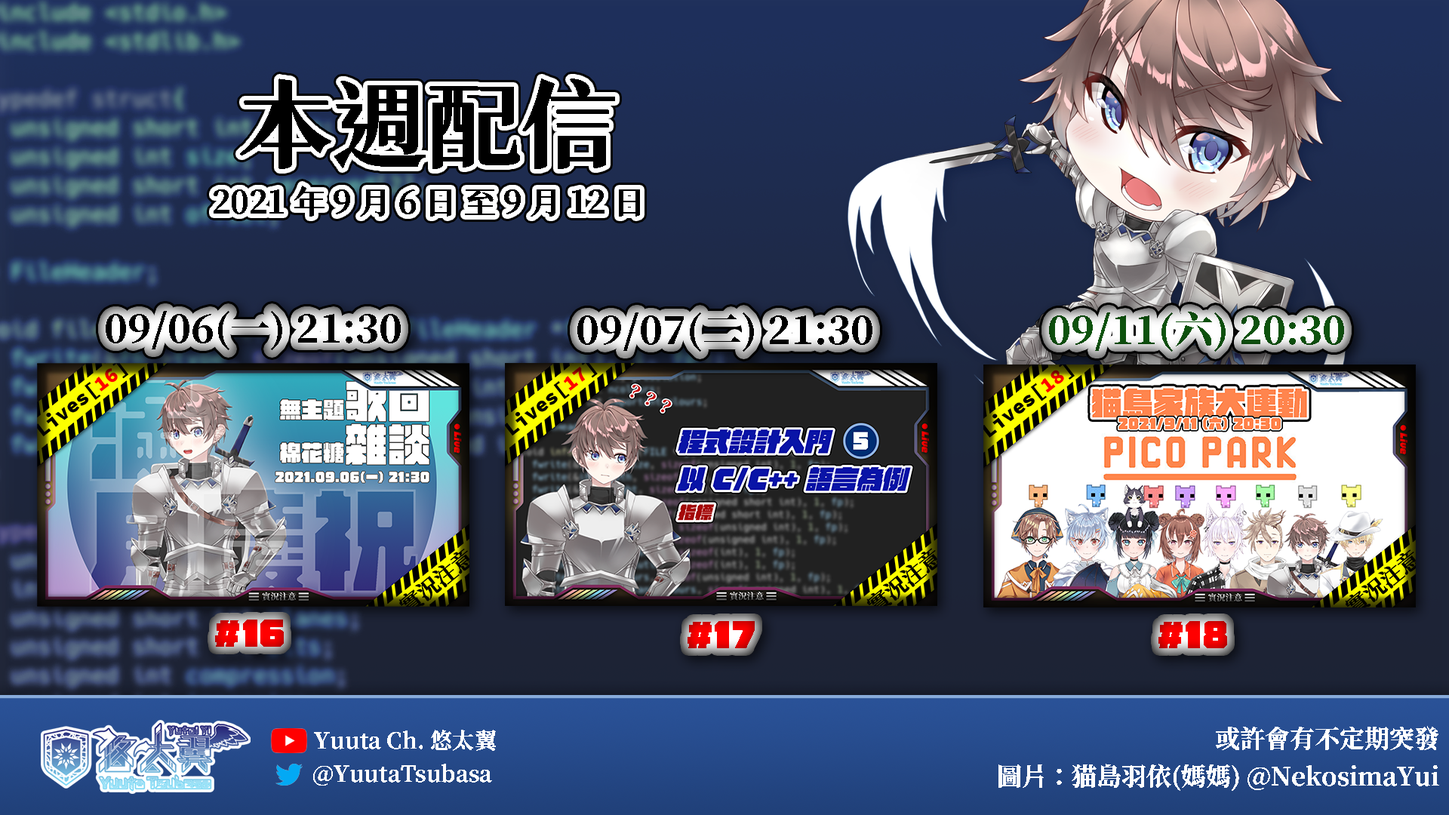
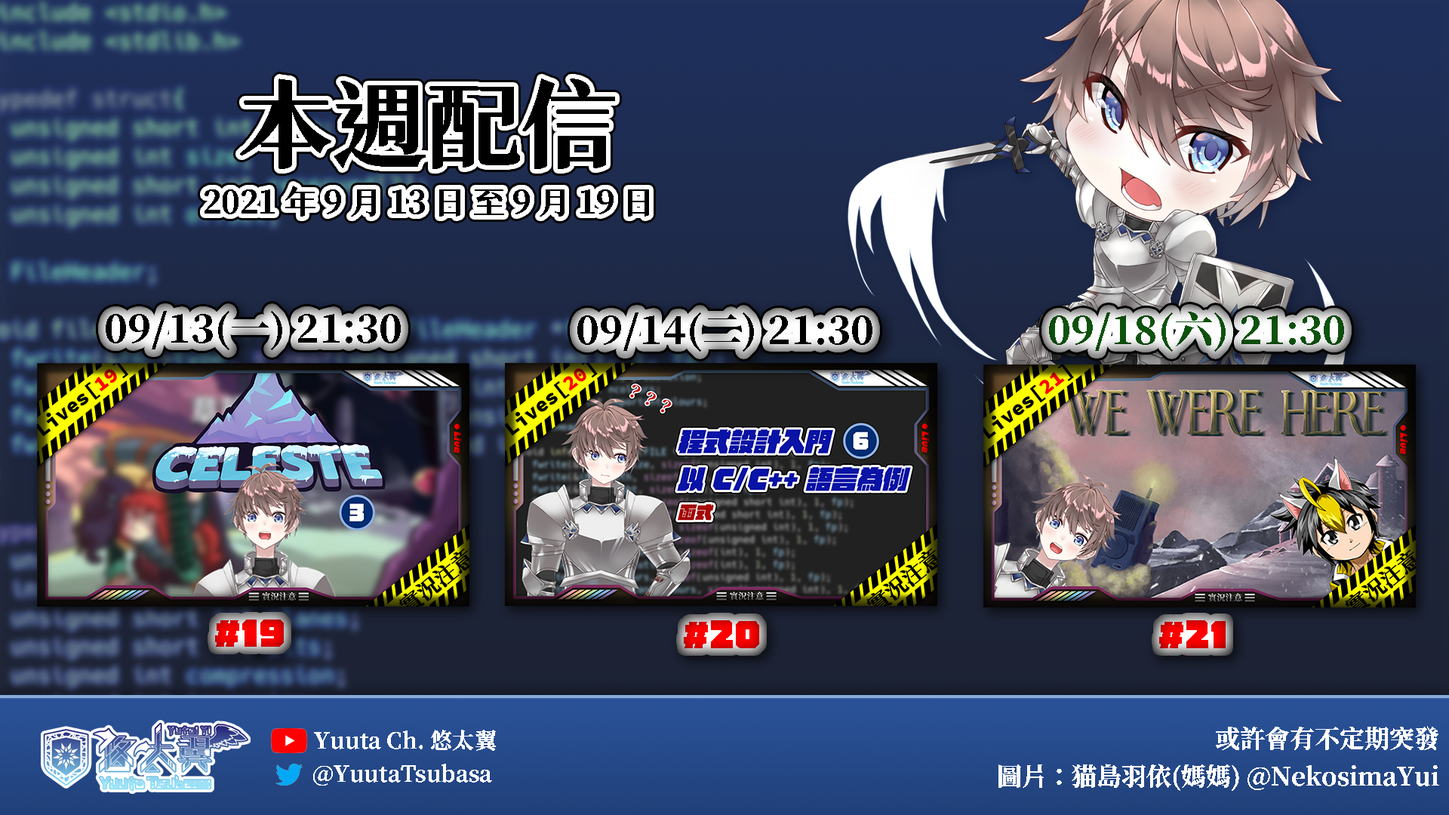
Deploying to gh-pages from @ YuutaTsubasa/yuutatsubasa.github.io@68db8c8528d4041c11b55ec7efde747c827c4e67 🚀

diff --git a/index.html b/index.html
@@ -1,1 +1,1 @@
-<!DOCTYPE html><html><head><meta name="viewport" content="width=device-width"/><meta charSet="utf-8"/><link rel="icon" href="/favicon.ico"/><link rel="stylesheet" href="/fontawesome/css/all.css"/><meta name="description" content="悠太翼的網站"/><meta name="og:title" content="悠太翼(YuutaTsubasa) 🛡 盔甲正太系程式 Vtuber"/><meta name="twitter:card" content="summary_large_image"/><title>悠太翼(YuutaTsubasa) 🛡 盔甲正太系程式 Vtuber</title><meta name="next-head-count" content="8"/><link rel="preload" href="/_next/static/css/c84a23c3529383e8691e.css" as="style"/><link rel="stylesheet" href="/_next/static/css/c84a23c3529383e8691e.css" data-n-g=""/><link rel="preload" href="/_next/static/css/3949ef07e270089e69d4.css" as="style"/><link rel="stylesheet" href="/_next/static/css/3949ef07e270089e69d4.css" data-n-p=""/><noscript data-n-css=""></noscript><script defer="" nomodule="" src="/_next/static/chunks/polyfills-a40ef1678bae11e696dba45124eadd70.js"></script><script src="/_next/static/chunks/webpack-fb76148cfcfb42ca18eb.js" defer=""></script><script src="/_next/static/chunks/framework-b97a0ed4f13ff8397343.js" defer=""></script><script src="/_next/static/chunks/main-8d15616dad332ac01c02.js" defer=""></script><script src="/_next/static/chunks/pages/_app-fc216805fd2937317618.js" defer=""></script><script src="/_next/static/chunks/pages/index-48dd8db55119de9d9891.js" defer=""></script><script src="/_next/static/AriH-njQXCVdFA5lpGZep/_buildManifest.js" defer=""></script><script src="/_next/static/AriH-njQXCVdFA5lpGZep/_ssgManifest.js" defer=""></script></head><body><div id="__next"><div class="layout_container__2t4v2"><header class="layout_header__2rhWq"><div class="communityLinks_communityLinks__3LC9Q"><ul><li><a href="http://yutaii.run/twitter" target="_blank"><i class="fab fa-twitter"></i></a></li><li><a href="http://yutaii.run/youtube" target="_blank"><i class="fab fa-youtube"></i></a></li><li><a href="http://yutaii.run/facebook" target="_blank"><i class="fab fa-facebook"></i></a></li><li><a href="http://yutaii.run/marshmallow" target="_blank"><img src="/images/marshmallow.png" alt="Marshmallow"/></a></li></ul></div><div class="layout_banner__2PG7O"></div></header><main><section class="index_mainContent__l3EDZ"><section class="index_selfIntroduction__xe_VB"><section><img src="/images/avatar.png" class="index_borderCircle__2V_CV" alt="悠太翼 Yuuta Tsubasa"/></section><section><div class="index_name__5Sg1Y"><h1>悠太翼 Yuuta Tsubasa</h1><h4><a href="https://twitter.com/YuutaTsubasa/status/1418251268846276608" target="_blank">詳細設定</a></h4></div><div>為台灣個人勢Vtuber、盔甲正太系程式 Vtuber，語言主要以中文為主，直播內容以程式、唱歌、遊戲、雜談為主。</div></section></section><hr/><img src="/images/week.png" alt="本週行事曆"/><hr/><section class="index_news__19rHM"><section class="youtubeVideos_youtubeVideosSection__3qo5M"><h2>Youtube 最新直播存檔與影片</h2><ul class="youtubeVideos_youtubeVideoList__2bTWV"><li><iframe width="560" height="315" src="https://www.youtube.com/embed/VtLt3AYNJ6M" title="YouTube video player" frameborder="0" allow="accelerometer; autoplay; clipboard-write; encrypted-media; gyroscope; picture-in-picture" allowfullscreen="true"></iframe><h5><a href="https://www.youtube.com/watch?v=VtLt3AYNJ6M" target="_blank">【#程式】No. 17: 程式設計入門，以 C/C++ 語言為例：#05 指標</a></h5></li><li><iframe width="560" height="315" src="https://www.youtube.com/embed/eJCRaQhiwNo" title="YouTube video player" frameborder="0" allow="accelerometer; autoplay; clipboard-write; encrypted-media; gyroscope; picture-in-picture" allowfullscreen="true"></iframe><h5><a href="https://www.youtube.com/watch?v=eJCRaQhiwNo" target="_blank">【#歌回/#雜談】No. 16: 滿月慶祝！無主題歌回，棉花糖雜談！</a></h5></li><li><iframe width="560" height="315" src="https://www.youtube.com/embed/OyEz7vJwinc" title="YouTube video player" frameborder="0" allow="accelerometer; autoplay; clipboard-write; encrypted-media; gyroscope; picture-in-picture" allowfullscreen="true"></iframe><h5><a href="https://www.youtube.com/watch?v=OyEz7vJwinc" target="_blank">【#遊戲】No. 15: 繼續登山囉！《Celeste》 #02</a></h5></li><li><iframe width="560" height="315" src="https://www.youtube.com/embed/JFtjGUbIY8g" title="YouTube video player" frameborder="0" allow="accelerometer; autoplay; clipboard-write; encrypted-media; gyroscope; picture-in-picture" allowfullscreen="true"></iframe><h5><a href="https://www.youtube.com/watch?v=JFtjGUbIY8g" target="_blank">【#shorts】害羞地試唱個え?あぁ、そう。</a></h5></li><li><iframe width="560" height="315" src="https://www.youtube.com/embed/p7ho7-qJ-Z8" title="YouTube video player" frameborder="0" allow="accelerometer; autoplay; clipboard-write; encrypted-media; gyroscope; picture-in-picture" allowfullscreen="true"></iframe><h5><a href="https://www.youtube.com/watch?v=p7ho7-qJ-Z8" target="_blank">【#程式】No. 14: 程式設計入門，以 C/C++ 語言為例：#04 字元與字串</a></h5></li><li><iframe width="560" height="315" src="https://www.youtube.com/embed/LZQXkvkBdXo" title="YouTube video player" frameborder="0" allow="accelerometer; autoplay; clipboard-write; encrypted-media; gyroscope; picture-in-picture" allowfullscreen="true"></iframe><h5><a href="https://www.youtube.com/watch?v=LZQXkvkBdXo" target="_blank">【#遊戲/#連動】No. 13: 雙人成行 #05 (End.) feat. 貓耳未來</a></h5></li><li><iframe width="560" height="315" src="https://www.youtube.com/embed/yD-BMVUWFP4" title="YouTube video player" frameborder="0" allow="accelerometer; autoplay; clipboard-write; encrypted-media; gyroscope; picture-in-picture" allowfullscreen="true"></iframe><h5><a href="https://www.youtube.com/watch?v=yD-BMVUWFP4" target="_blank">【#遊戲】No. 12: 來登山囉！《Celeste》 #01</a></h5></li><li><iframe width="560" height="315" src="https://www.youtube.com/embed/dbkn4WJxRvE" title="YouTube video player" frameborder="0" allow="accelerometer; autoplay; clipboard-write; encrypted-media; gyroscope; picture-in-picture" allowfullscreen="true"></iframe><h5><a href="https://www.youtube.com/watch?v=dbkn4WJxRvE" target="_blank">【#shorts】試唱著フラジール看看！？</a></h5></li><li><iframe width="560" height="315" src="https://www.youtube.com/embed/CLUQ93efUrk" title="YouTube video player" frameborder="0" allow="accelerometer; autoplay; clipboard-write; encrypted-media; gyroscope; picture-in-picture" allowfullscreen="true"></iframe><h5><a href="https://www.youtube.com/watch?v=CLUQ93efUrk" target="_blank">【#程式】No. 11: 程式設計入門，以 C/C++ 語言為例：#03 陣列</a></h5></li></ul></section><section class="index_twitter__1Bhv0"><a class="twitter-timeline" data-lang="zh-tw" data-height="800" data-dnt="true" data-theme="light" href="https://twitter.com/YuutaTsubasa?ref_src=twsrc%5Etfw">Tweets by YuutaTsubasa</a> <script async src="https://platform.twitter.com/widgets.js" charset="utf-8"></script></section></section></section></main><footer class="layout_footer__127N0"><img src="/images/logo.png" alt="悠太翼"/></footer></div></div><script id="__NEXT_DATA__" type="application/json">{"props":{"pageProps":{"communityLinksData":[{"name":"Twitter","url":"http://yutaii.run/twitter","fontawesome":"fab fa-twitter"},{"name":"Youtube","url":"http://yutaii.run/youtube","fontawesome":"fab fa-youtube"},{"name":"Facebook","url":"http://yutaii.run/facebook","fontawesome":"fab fa-facebook"},{"name":"Marshmallow","url":"http://yutaii.run/marshmallow","image":"/images/marshmallow.png"}],"youtubeVideosData":[{"name":"【#程式】No. 17: 程式設計入門，以 C/C++ 語言為例：#05 指標","url":"VtLt3AYNJ6M"},{"name":"【#歌回/#雜談】No. 16: 滿月慶祝！無主題歌回，棉花糖雜談！","url":"eJCRaQhiwNo"},{"name":"【#遊戲】No. 15: 繼續登山囉！《Celeste》 #02","url":"OyEz7vJwinc"},{"name":"【#shorts】害羞地試唱個え?あぁ、そう。","url":"JFtjGUbIY8g"},{"name":"【#程式】No. 14: 程式設計入門，以 C/C++ 語言為例：#04 字元與字串","url":"p7ho7-qJ-Z8"},{"name":"【#遊戲/#連動】No. 13: 雙人成行 #05 (End.) feat. 貓耳未來","url":"LZQXkvkBdXo"},{"name":"【#遊戲】No. 12: 來登山囉！《Celeste》 #01","url":"yD-BMVUWFP4"},{"name":"【#shorts】試唱著フラジール看看！？","url":"dbkn4WJxRvE"},{"name":"【#程式】No. 11: 程式設計入門，以 C/C++ 語言為例：#03 陣列","url":"CLUQ93efUrk"},{"name":"【#遊戲/#連動】No. 10: 雙人成行 #04 feat. 貓耳未來","url":"_9qcpKku9LU"},{"name":"【#遊戲】No. 9: 來玩《陽春白雪》吧！","url":"43WXeYvCY2U"},{"name":"【#突發/#歌回】突發 2: 夜晚的羞恥練歌直播時間","url":"FVmzHwqmpMQ"},{"name":"【#shorts】中華一番最近又重新在木棉花連載，就來唱一小段主題曲吧！","url":"URrwX1Iu0Rk"},{"name":"【#程式】No. 8: 程式設計入門，以 C/C++ 語言為例：#02 條件判斷 \u0026 迴圈","url":"weh2FarXZNc"},{"name":"【#遊戲/#連動】No. 7: 雙人成行 #03 feat. 貓耳未來","url":"t67NnPcA2cM"},{"name":"【#遊戲】No. 6: 來複習一下 Sonic Generations 吧！","url":"7J8GLuXLLyU"},{"name":"【#程式】No. 5: 程式設計入門，以 C/C++ 語言為例：#01 基本輸入輸出 \u0026 變數與運算","url":"dDFZ9v9MOJA"},{"name":"【#遊戲/#連動】No. 4: 雙人成行 #02 feat. 貓耳未來","url":"AG3abdXMtTA"},{"name":"【#突發/#遊戲】突發 1: 測試 Mac 直播，遊玩第七史詩 #01","url":"WoKRDLibx1Y"},{"name":"【#突發/#遊戲】突發 0: 測試平板直播，遊玩東方ダンマクカグラ和プロジェクトセカイ","url":"vN2Oz2uggW4"},{"name":"【#遊戲】No. 3: 來玩簡單的益智小遊戲 Clickr 吧！","url":"hVkDb9IFXL0"},{"name":"【#精華】初配信歌回剪輯：ベノム","url":"M-2We-9Te5I"},{"name":"【#程式】No. 2: 從零開始的 Youtube 聊天室 CSS 語法設定教學","url":"1oHsrrheF94"},{"name":"【#遊戲/#連動】No. 1: 雙人成行 #01 feat. 貓耳未來","url":"Bb5PbxXB7lQ"},{"name":"【#實況】No. 0: 初配信，來做點自我介紹吧！","url":"zbyvgQOZu8E"},{"name":"【#預告】歡迎大家來我的初配信玩唷！","url":"9AalehTm_Bc"},{"name":"【#生日/#歌回】生日來唱一下「Butter-Fly」！","url":"xmkA5Q4M2mg"},{"name":"【#shorts】做完以前所居住的地方的背景圖，就來用這張圖唱個シャルル吧！","url":"H4Mb1SR7EUk"},{"name":"【#BGM】悠太個人工作室 / Yuuta's Personal Workstation (悠太翼主要實況用背景音樂) - SIHanatsuka","url":"ZIqUfaHiIlg"},{"name":"【#歌回】推特 900 追隨慶祝，試唱個北斗之拳主題曲「愛をとりもどせ!!」吧！","url":"CLfMfrNmBYU"},{"name":"【#shorts】練唱個新宝島看看","url":"vQYa-Yk5PPY"},{"name":"【#社群先行/#歌回】推特 800 追隨慶祝，一次試唱「踊」！","url":"Lp5hLthAPYM"},{"name":"【#shorts】偷哼歌又被抓到了QAQ","url":"Ib_jbZkilqk"}]},"__N_SSG":true},"page":"/","query":{},"buildId":"AriH-njQXCVdFA5lpGZep","isFallback":false,"gsp":true,"scriptLoader":[]}</script></body></html>
+<!DOCTYPE html><html><head><meta name="viewport" content="width=device-width"/><meta charSet="utf-8"/><link rel="icon" href="/favicon.ico"/><link rel="stylesheet" href="/fontawesome/css/all.css"/><meta name="description" content="悠太翼的網站"/><meta name="og:title" content="悠太翼(YuutaTsubasa) 🛡 盔甲正太系程式 Vtuber"/><meta name="twitter:card" content="summary_large_image"/><title>悠太翼(YuutaTsubasa) 🛡 盔甲正太系程式 Vtuber</title><meta name="next-head-count" content="8"/><link rel="preload" href="/_next/static/css/c84a23c3529383e8691e.css" as="style"/><link rel="stylesheet" href="/_next/static/css/c84a23c3529383e8691e.css" data-n-g=""/><link rel="preload" href="/_next/static/css/3949ef07e270089e69d4.css" as="style"/><link rel="stylesheet" href="/_next/static/css/3949ef07e270089e69d4.css" data-n-p=""/><noscript data-n-css=""></noscript><script defer="" nomodule="" src="/_next/static/chunks/polyfills-a40ef1678bae11e696dba45124eadd70.js"></script><script src="/_next/static/chunks/webpack-fb76148cfcfb42ca18eb.js" defer=""></script><script src="/_next/static/chunks/framework-b97a0ed4f13ff8397343.js" defer=""></script><script src="/_next/static/chunks/main-8d15616dad332ac01c02.js" defer=""></script><script src="/_next/static/chunks/pages/_app-fc216805fd2937317618.js" defer=""></script><script src="/_next/static/chunks/pages/index-48dd8db55119de9d9891.js" defer=""></script><script src="/_next/static/aIDZtK797D-mD7-SrkF7M/_buildManifest.js" defer=""></script><script src="/_next/static/aIDZtK797D-mD7-SrkF7M/_ssgManifest.js" defer=""></script></head><body><div id="__next"><div class="layout_container__2t4v2"><header class="layout_header__2rhWq"><div class="communityLinks_communityLinks__3LC9Q"><ul><li><a href="http://yutaii.run/twitter" target="_blank"><i class="fab fa-twitter"></i></a></li><li><a href="http://yutaii.run/youtube" target="_blank"><i class="fab fa-youtube"></i></a></li><li><a href="http://yutaii.run/facebook" target="_blank"><i class="fab fa-facebook"></i></a></li><li><a href="http://yutaii.run/marshmallow" target="_blank"><img src="/images/marshmallow.png" alt="Marshmallow"/></a></li></ul></div><div class="layout_banner__2PG7O"></div></header><main><section class="index_mainContent__l3EDZ"><section class="index_selfIntroduction__xe_VB"><section><img src="/images/avatar.png" class="index_borderCircle__2V_CV" alt="悠太翼 Yuuta Tsubasa"/></section><section><div class="index_name__5Sg1Y"><h1>悠太翼 Yuuta Tsubasa</h1><h4><a href="https://twitter.com/YuutaTsubasa/status/1418251268846276608" target="_blank">詳細設定</a></h4></div><div>為台灣個人勢Vtuber、盔甲正太系程式 Vtuber，語言主要以中文為主，直播內容以程式、唱歌、遊戲、雜談為主。</div></section></section><hr/><img src="/images/week.png" alt="本週行事曆"/><hr/><section class="index_news__19rHM"><section class="youtubeVideos_youtubeVideosSection__3qo5M"><h2>Youtube 最新直播存檔與影片</h2><ul class="youtubeVideos_youtubeVideoList__2bTWV"><li><iframe width="560" height="315" src="https://www.youtube.com/embed/pojlHQP8S7w" title="YouTube video player" frameborder="0" allow="accelerometer; autoplay; clipboard-write; encrypted-media; gyroscope; picture-in-picture" allowfullscreen="true"></iframe><h5><a href="https://www.youtube.com/watch?v=pojlHQP8S7w" target="_blank">【#遊戲】No. 18: #猫島家族大連動！一起來玩《Pico Park》吧！feat. 猫島家族</a></h5></li><li><iframe width="560" height="315" src="https://www.youtube.com/embed/VtLt3AYNJ6M" title="YouTube video player" frameborder="0" allow="accelerometer; autoplay; clipboard-write; encrypted-media; gyroscope; picture-in-picture" allowfullscreen="true"></iframe><h5><a href="https://www.youtube.com/watch?v=VtLt3AYNJ6M" target="_blank">【#程式】No. 17: 程式設計入門，以 C/C++ 語言為例：#05 指標</a></h5></li><li><iframe width="560" height="315" src="https://www.youtube.com/embed/eJCRaQhiwNo" title="YouTube video player" frameborder="0" allow="accelerometer; autoplay; clipboard-write; encrypted-media; gyroscope; picture-in-picture" allowfullscreen="true"></iframe><h5><a href="https://www.youtube.com/watch?v=eJCRaQhiwNo" target="_blank">【#歌回/#雜談】No. 16: 滿月慶祝！無主題歌回，棉花糖雜談！</a></h5></li><li><iframe width="560" height="315" src="https://www.youtube.com/embed/OyEz7vJwinc" title="YouTube video player" frameborder="0" allow="accelerometer; autoplay; clipboard-write; encrypted-media; gyroscope; picture-in-picture" allowfullscreen="true"></iframe><h5><a href="https://www.youtube.com/watch?v=OyEz7vJwinc" target="_blank">【#遊戲】No. 15: 繼續登山囉！《Celeste》 #02</a></h5></li><li><iframe width="560" height="315" src="https://www.youtube.com/embed/JFtjGUbIY8g" title="YouTube video player" frameborder="0" allow="accelerometer; autoplay; clipboard-write; encrypted-media; gyroscope; picture-in-picture" allowfullscreen="true"></iframe><h5><a href="https://www.youtube.com/watch?v=JFtjGUbIY8g" target="_blank">【#shorts】害羞地試唱個え?あぁ、そう。</a></h5></li><li><iframe width="560" height="315" src="https://www.youtube.com/embed/p7ho7-qJ-Z8" title="YouTube video player" frameborder="0" allow="accelerometer; autoplay; clipboard-write; encrypted-media; gyroscope; picture-in-picture" allowfullscreen="true"></iframe><h5><a href="https://www.youtube.com/watch?v=p7ho7-qJ-Z8" target="_blank">【#程式】No. 14: 程式設計入門，以 C/C++ 語言為例：#04 字元與字串</a></h5></li><li><iframe width="560" height="315" src="https://www.youtube.com/embed/LZQXkvkBdXo" title="YouTube video player" frameborder="0" allow="accelerometer; autoplay; clipboard-write; encrypted-media; gyroscope; picture-in-picture" allowfullscreen="true"></iframe><h5><a href="https://www.youtube.com/watch?v=LZQXkvkBdXo" target="_blank">【#遊戲/#連動】No. 13: 雙人成行 #05 (End.) feat. 貓耳未來</a></h5></li><li><iframe width="560" height="315" src="https://www.youtube.com/embed/yD-BMVUWFP4" title="YouTube video player" frameborder="0" allow="accelerometer; autoplay; clipboard-write; encrypted-media; gyroscope; picture-in-picture" allowfullscreen="true"></iframe><h5><a href="https://www.youtube.com/watch?v=yD-BMVUWFP4" target="_blank">【#遊戲】No. 12: 來登山囉！《Celeste》 #01</a></h5></li><li><iframe width="560" height="315" src="https://www.youtube.com/embed/dbkn4WJxRvE" title="YouTube video player" frameborder="0" allow="accelerometer; autoplay; clipboard-write; encrypted-media; gyroscope; picture-in-picture" allowfullscreen="true"></iframe><h5><a href="https://www.youtube.com/watch?v=dbkn4WJxRvE" target="_blank">【#shorts】試唱著フラジール看看！？</a></h5></li></ul></section><section class="index_twitter__1Bhv0"><a class="twitter-timeline" data-lang="zh-tw" data-height="800" data-dnt="true" data-theme="light" href="https://twitter.com/YuutaTsubasa?ref_src=twsrc%5Etfw">Tweets by YuutaTsubasa</a> <script async src="https://platform.twitter.com/widgets.js" charset="utf-8"></script></section></section></section></main><footer class="layout_footer__127N0"><img src="/images/logo.png" alt="悠太翼"/></footer></div></div><script id="__NEXT_DATA__" type="application/json">{"props":{"pageProps":{"communityLinksData":[{"name":"Twitter","url":"http://yutaii.run/twitter","fontawesome":"fab fa-twitter"},{"name":"Youtube","url":"http://yutaii.run/youtube","fontawesome":"fab fa-youtube"},{"name":"Facebook","url":"http://yutaii.run/facebook","fontawesome":"fab fa-facebook"},{"name":"Marshmallow","url":"http://yutaii.run/marshmallow","image":"/images/marshmallow.png"}],"youtubeVideosData":[{"name":"【#遊戲】No. 18: #猫島家族大連動！一起來玩《Pico Park》吧！feat. 猫島家族","url":"pojlHQP8S7w"},{"name":"【#程式】No. 17: 程式設計入門，以 C/C++ 語言為例：#05 指標","url":"VtLt3AYNJ6M"},{"name":"【#歌回/#雜談】No. 16: 滿月慶祝！無主題歌回，棉花糖雜談！","url":"eJCRaQhiwNo"},{"name":"【#遊戲】No. 15: 繼續登山囉！《Celeste》 #02","url":"OyEz7vJwinc"},{"name":"【#shorts】害羞地試唱個え?あぁ、そう。","url":"JFtjGUbIY8g"},{"name":"【#程式】No. 14: 程式設計入門，以 C/C++ 語言為例：#04 字元與字串","url":"p7ho7-qJ-Z8"},{"name":"【#遊戲/#連動】No. 13: 雙人成行 #05 (End.) feat. 貓耳未來","url":"LZQXkvkBdXo"},{"name":"【#遊戲】No. 12: 來登山囉！《Celeste》 #01","url":"yD-BMVUWFP4"},{"name":"【#shorts】試唱著フラジール看看！？","url":"dbkn4WJxRvE"},{"name":"【#程式】No. 11: 程式設計入門，以 C/C++ 語言為例：#03 陣列","url":"CLUQ93efUrk"},{"name":"【#遊戲/#連動】No. 10: 雙人成行 #04 feat. 貓耳未來","url":"_9qcpKku9LU"},{"name":"【#遊戲】No. 9: 來玩《陽春白雪》吧！","url":"43WXeYvCY2U"},{"name":"【#突發/#歌回】突發 2: 夜晚的羞恥練歌直播時間","url":"FVmzHwqmpMQ"},{"name":"【#shorts】中華一番最近又重新在木棉花連載，就來唱一小段主題曲吧！","url":"URrwX1Iu0Rk"},{"name":"【#程式】No. 8: 程式設計入門，以 C/C++ 語言為例：#02 條件判斷 \u0026 迴圈","url":"weh2FarXZNc"},{"name":"【#遊戲/#連動】No. 7: 雙人成行 #03 feat. 貓耳未來","url":"t67NnPcA2cM"},{"name":"【#遊戲】No. 6: 來複習一下 Sonic Generations 吧！","url":"7J8GLuXLLyU"},{"name":"【#程式】No. 5: 程式設計入門，以 C/C++ 語言為例：#01 基本輸入輸出 \u0026 變數與運算","url":"dDFZ9v9MOJA"},{"name":"【#遊戲/#連動】No. 4: 雙人成行 #02 feat. 貓耳未來","url":"AG3abdXMtTA"},{"name":"【#突發/#遊戲】突發 1: 測試 Mac 直播，遊玩第七史詩 #01","url":"WoKRDLibx1Y"},{"name":"【#突發/#遊戲】突發 0: 測試平板直播，遊玩東方ダンマクカグラ和プロジェクトセカイ","url":"vN2Oz2uggW4"},{"name":"【#遊戲】No. 3: 來玩簡單的益智小遊戲 Clickr 吧！","url":"hVkDb9IFXL0"},{"name":"【#精華】初配信歌回剪輯：ベノム","url":"M-2We-9Te5I"},{"name":"【#程式】No. 2: 從零開始的 Youtube 聊天室 CSS 語法設定教學","url":"1oHsrrheF94"},{"name":"【#遊戲/#連動】No. 1: 雙人成行 #01 feat. 貓耳未來","url":"Bb5PbxXB7lQ"},{"name":"【#實況】No. 0: 初配信，來做點自我介紹吧！","url":"zbyvgQOZu8E"},{"name":"【#預告】歡迎大家來我的初配信玩唷！","url":"9AalehTm_Bc"},{"name":"【#生日/#歌回】生日來唱一下「Butter-Fly」！","url":"xmkA5Q4M2mg"},{"name":"【#shorts】做完以前所居住的地方的背景圖，就來用這張圖唱個シャルル吧！","url":"H4Mb1SR7EUk"},{"name":"【#BGM】悠太個人工作室 / Yuuta's Personal Workstation (悠太翼主要實況用背景音樂) - SIHanatsuka","url":"ZIqUfaHiIlg"},{"name":"【#歌回】推特 900 追隨慶祝，試唱個北斗之拳主題曲「愛をとりもどせ!!」吧！","url":"CLfMfrNmBYU"},{"name":"【#shorts】練唱個新宝島看看","url":"vQYa-Yk5PPY"},{"name":"【#社群先行/#歌回】推特 800 追隨慶祝，一次試唱「踊」！","url":"Lp5hLthAPYM"},{"name":"【#shorts】偷哼歌又被抓到了QAQ","url":"Ib_jbZkilqk"}]},"__N_SSG":true},"page":"/","query":{},"buildId":"aIDZtK797D-mD7-SrkF7M","isFallback":false,"gsp":true,"scriptLoader":[]}</script></body></html>

diff --git a/404.html b/404.html
@@ -1,1 +1,1 @@
-<!DOCTYPE html><html><head><meta name="viewport" content="width=device-width"/><meta charSet="utf-8"/><title>404: This page could not be found</title><meta name="next-head-count" content="3"/><link rel="preload" href="/_next/static/css/c84a23c3529383e8691e.css" as="style"/><link rel="stylesheet" href="/_next/static/css/c84a23c3529383e8691e.css" data-n-g=""/><noscript data-n-css=""></noscript><script defer="" nomodule="" src="/_next/static/chunks/polyfills-a40ef1678bae11e696dba45124eadd70.js"></script><script src="/_next/static/chunks/webpack-fb76148cfcfb42ca18eb.js" defer=""></script><script src="/_next/static/chunks/framework-b97a0ed4f13ff8397343.js" defer=""></script><script src="/_next/static/chunks/main-8d15616dad332ac01c02.js" defer=""></script><script src="/_next/static/chunks/pages/_app-fc216805fd2937317618.js" defer=""></script><script src="/_next/static/chunks/pages/_error-737a04e9a0da63c9d162.js" defer=""></script><script src="/_next/static/AriH-njQXCVdFA5lpGZep/_buildManifest.js" defer=""></script><script src="/_next/static/AriH-njQXCVdFA5lpGZep/_ssgManifest.js" defer=""></script></head><body><div id="__next"><div style="color:#000;background:#fff;font-family:-apple-system, BlinkMacSystemFont, Roboto, &quot;Segoe UI&quot;, &quot;Fira Sans&quot;, Avenir, &quot;Helvetica Neue&quot;, &quot;Lucida Grande&quot;, sans-serif;height:100vh;text-align:center;display:flex;flex-direction:column;align-items:center;justify-content:center"><div><style>body { margin: 0 }</style><h1 style="display:inline-block;border-right:1px solid rgba(0, 0, 0,.3);margin:0;margin-right:20px;padding:10px 23px 10px 0;font-size:24px;font-weight:500;vertical-align:top">404</h1><div style="display:inline-block;text-align:left;line-height:49px;height:49px;vertical-align:middle"><h2 style="font-size:14px;font-weight:normal;line-height:inherit;margin:0;padding:0">This page could not be found<!-- -->.</h2></div></div></div></div><script id="__NEXT_DATA__" type="application/json">{"props":{"pageProps":{"statusCode":404}},"page":"/_error","query":{},"buildId":"AriH-njQXCVdFA5lpGZep","nextExport":true,"isFallback":false,"gip":true,"scriptLoader":[]}</script></body></html>
+<!DOCTYPE html><html><head><meta name="viewport" content="width=device-width"/><meta charSet="utf-8"/><title>404: This page could not be found</title><meta name="next-head-count" content="3"/><link rel="preload" href="/_next/static/css/c84a23c3529383e8691e.css" as="style"/><link rel="stylesheet" href="/_next/static/css/c84a23c3529383e8691e.css" data-n-g=""/><noscript data-n-css=""></noscript><script defer="" nomodule="" src="/_next/static/chunks/polyfills-a40ef1678bae11e696dba45124eadd70.js"></script><script src="/_next/static/chunks/webpack-fb76148cfcfb42ca18eb.js" defer=""></script><script src="/_next/static/chunks/framework-b97a0ed4f13ff8397343.js" defer=""></script><script src="/_next/static/chunks/main-8d15616dad332ac01c02.js" defer=""></script><script src="/_next/static/chunks/pages/_app-fc216805fd2937317618.js" defer=""></script><script src="/_next/static/chunks/pages/_error-737a04e9a0da63c9d162.js" defer=""></script><script src="/_next/static/aIDZtK797D-mD7-SrkF7M/_buildManifest.js" defer=""></script><script src="/_next/static/aIDZtK797D-mD7-SrkF7M/_ssgManifest.js" defer=""></script></head><body><div id="__next"><div style="color:#000;background:#fff;font-family:-apple-system, BlinkMacSystemFont, Roboto, &quot;Segoe UI&quot;, &quot;Fira Sans&quot;, Avenir, &quot;Helvetica Neue&quot;, &quot;Lucida Grande&quot;, sans-serif;height:100vh;text-align:center;display:flex;flex-direction:column;align-items:center;justify-content:center"><div><style>body { margin: 0 }</style><h1 style="display:inline-block;border-right:1px solid rgba(0, 0, 0,.3);margin:0;margin-right:20px;padding:10px 23px 10px 0;font-size:24px;font-weight:500;vertical-align:top">404</h1><div style="display:inline-block;text-align:left;line-height:49px;height:49px;vertical-align:middle"><h2 style="font-size:14px;font-weight:normal;line-height:inherit;margin:0;padding:0">This page could not be found<!-- -->.</h2></div></div></div></div><script id="__NEXT_DATA__" type="application/json">{"props":{"pageProps":{"statusCode":404}},"page":"/_error","query":{},"buildId":"aIDZtK797D-mD7-SrkF7M","nextExport":true,"isFallback":false,"gip":true,"scriptLoader":[]}</script></body></html>
